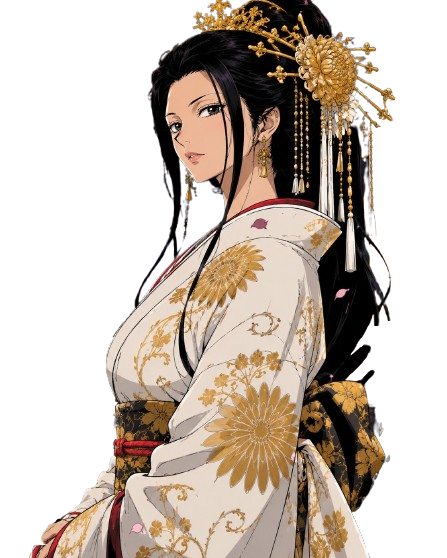
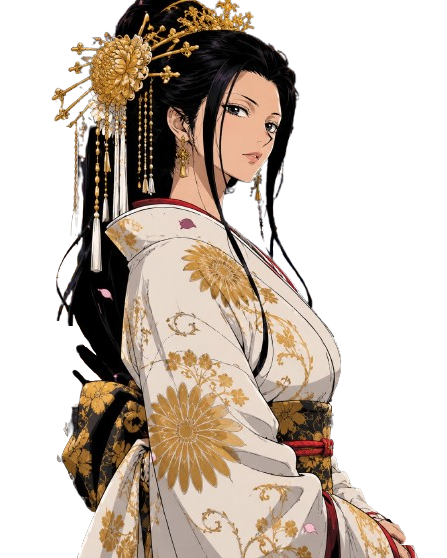
Juego Nyinyus v2.17

diff --git a/game.js b/game.js
@@ -88,7 +88,8 @@ const collectibleLibrary = {
     order: 2,
     buttonText: "Pergamino",
     image: "PERGAMINO_DEL_KYUBI_CELESTIAL.jpeg",
-    alt: "Pergamino con una mascara de zorro y un simbolo circular fragmentado"
+    alt: "Pergamino con una mascara de zorro y un simbolo circular fragmentado",
+    visibleScenePrefixes: ["toki_hanashima_"]
   }
 };
 const creditTeam = [
@@ -554,12 +555,13 @@ function getVisibleLayoutItems(items) {
 function showDialogue(step) {
   recordCheckpoint();
   const speaker = step.speaker || "";
+  const speakingCharacterKey = step.characterId || step.character || speaker;
 
-  revealSpeakingCharacter(speaker);
+  revealSpeakingCharacter(speakingCharacterKey);
   speakerName.textContent = speaker;
   speakerName.classList.toggle("hidden", !speaker);
-  setSpeakerStyle(speaker);
-  setSpeakingCharacter(speaker);
+  setSpeakerStyle(speakingCharacterKey);
+  setSpeakingCharacter(speakingCharacterKey);
   typeText(step.text || "");
 }
 
@@ -652,7 +654,7 @@ async function showCredits() {
   const endingBlock = creditsRoll.querySelector(".credits-ending-block");
   const endOffset = calculateCreditsEndOffset(endingBlock);
   const travelDistance = window.innerHeight - endOffset;
-  const duration = Math.max(78, Math.ceil(travelDistance / 22));
+  const duration = Math.max(58, Math.ceil(travelDistance / 30));
   creditsRoll.style.setProperty("--credits-end-offset", endOffset + "px");
   creditsRoll.style.setProperty("--credits-duration", duration + "s");
   creditsRoll.style.animation = "";
@@ -702,8 +704,6 @@ function buildCreditsRoll() {
 
   const groupBlock = document.createElement("section");
   groupBlock.className = "credits-group-photo";
-  appendCreditText(groupBlock, "Foto grupal", "credits-section-title");
-  appendCreditText(groupBlock, "*Aún no la tengo", "credits-note");
   creditsRoll.appendChild(groupBlock);
 
   appendCreditEndingButton();
@@ -981,7 +981,7 @@ function renderInspectPrompt(options) {
 
   inspectPrompt.innerHTML = "";
 
-  getUnlockedCollectiblesInOrder().forEach((collectible) => {
+  getVisibleUnlockedCollectiblesInOrder().forEach((collectible) => {
     const isRequired =
       requiredStep &&
       requiredStep.collectible &&
@@ -1050,6 +1050,25 @@ function handleInspectButtonClick(step, options) {
 function getUnlockedCollectiblesInOrder() {
   return Array.from(unlockedCollectibles.values()).sort((left, right) => {
     return getCollectibleOrder(left.id) - getCollectibleOrder(right.id);
+  });
+}
+
+function getVisibleUnlockedCollectiblesInOrder() {
+  return getUnlockedCollectiblesInOrder().filter((collectible) => {
+    return isCollectibleVisibleInScene(collectible.id, currentSceneId);
+  });
+}
+
+function isCollectibleVisibleInScene(collectibleId, sceneId) {
+  const collectible = collectibleLibrary[collectibleId];
+  const visibleScenePrefixes = collectible && collectible.visibleScenePrefixes;
+
+  if (!Array.isArray(visibleScenePrefixes) || visibleScenePrefixes.length === 0) {
+    return true;
+  }
+
+  return visibleScenePrefixes.some((prefix) => {
+    return typeof prefix === "string" && typeof sceneId === "string" && sceneId.startsWith(prefix);
   });
 }
 
@@ -1879,8 +1898,7 @@ function applyBackgroundState(backgroundState) {
 }
 
 function shouldHideCharactersForCurrentBackground() {
-  return normalizeAssetKey(currentBackgroundState && currentBackgroundState.image) ===
-    TRANSITION_BACKGROUND_KEY;
+  return false;
 }
 
 function normalizeAssetKey(value) {
@@ -2359,6 +2377,13 @@ function getAnchoredCompanionLeftSlots(count) {
 }
 
 function getAnchoredCompanionCenterSlots(count) {
+  if (count === 2) {
+    return [
+      { position: "center", side: "center", offsetX: "-92px", zIndex: 35 },
+      { position: "center", side: "center", offsetX: "92px", zIndex: 35 }
+    ];
+  }
+
   return buildSlotSequence(count, [
     { position: "center", side: "center", zIndex: 36 },
     { position: "center", side: "center", offsetX: "-92px", zIndex: 35 },
@@ -2552,16 +2577,25 @@ function isPirateCharacter(character) {
   );
 }
 
+function isElevatedFocalCharacter(character) {
+  return isPirateCharacter(character) || isCharacter(character, "rey_hanabusa");
+}
+
 function isChildCharacter(character) {
   return isCharacter(character, "nino") || isCharacter(character, "ninos");
 }
 
 function isAnchoredFocalCharacter(character) {
-  return isPirateCharacter(character) || isChildCharacter(character);
+  return isElevatedFocalCharacter(character) || isChildCharacter(character);
 }
 
 function isCenteredSupportCharacter(character) {
-  return isCharacter(character, "anciano_triste") || isCharacter(character, "anciano_contento");
+  return (
+    isCharacter(character, "anciano_triste") ||
+    isCharacter(character, "anciano_contento") ||
+    isCharacter(character, "lady_rin") ||
+    isCharacter(character, "lord_kazan")
+  );
 }
 
 function buildHighlightedTertiaryGroup(tertiaryCharacters, normalizedAnimatedId) {

diff --git a/scenes/isla-rabbita.js b/scenes/isla-rabbita.js
@@ -1,7 +1,8 @@
-const rabbitaDialogue = (speaker, text) => ({
+const rabbitaDialogue = (speaker, text, characterId) => ({
   type: "dialogue",
   speaker,
-  text
+  text,
+  ...(characterId ? { characterId } : {})
 });
 
 Object.assign(story, {
@@ -212,7 +213,7 @@ Object.assign(story, {
     ),
     rabbitaDialogue("Mako", "¡¡¡HOLAAAAA!!!"),
     rabbitaDialogue("Narrador", "La chica pegó un pequeño salto. Sus papeles casi salieron volando."),
-    rabbitaDialogue("?????", "¿¡Qué...!?"),
+    rabbitaDialogue("?????", "¿¡Qué...!?", "blue"),
     rabbitaDialogue(
       "Mako",
       "¿Por qué estás triste y científica al mismo tiempo? ¿Quieres ser mi amiga? ¿Cómo te llamas? ¿Qué haces aquí?"
@@ -221,7 +222,7 @@ Object.assign(story, {
       "Narrador",
       "La chica parpadeó varias veces, intentando procesar todo lo que estaba ocurriendo."
     ),
-    rabbitaDialogue("?????", "Yo... no estoy... ¿eh? Soy Blue... y yo... eh..."),
+    rabbitaDialogue("?????", "Yo... no estoy... ¿eh? Soy Blue... y yo... eh...", "blue"),
     rabbitaDialogue("Narrador", "Miró el brazo de Mako todavía colgado sobre ella."),
     rabbitaDialogue("Blue", "Necesito un momento para procesar esto."),
     rabbitaDialogue("Narrador", "Rocky empezó a reírse desde la mesa."),
@@ -1177,7 +1178,7 @@ Object.assign(story, {
     rabbitaDialogue("Narrador", "Mako abrió muchísimo los ojos."),
     rabbitaDialogue("Mako", "LA ISLA SE ESTÁ MOVIENDO."),
     rabbitaDialogue("Narrador", "Entonces una voz resonó detrás de ellos."),
-    rabbitaDialogue("?????", "Lo hiciste. Sabía que lo conseguirías."),
+    rabbitaDialogue("?????", "Lo hiciste. Sabía que lo conseguirías.", "sylus"),
     rabbitaDialogue("Narrador", "Todos se giraron."),
     rabbitaDialogue(
       "Narrador",

diff --git a/index.html b/index.html
@@ -94,11 +94,11 @@
   <script src="scenes/intro.js?v=20260511a"></script>
   <script src="scenes/isla-toki-no-hanashima.js?v=20260511b"></script>
   <script src="scenes/isla-tempestaria.js?v=20260511a"></script>
-  <script src="scenes/isla-rabbita.js?v=20260517a"></script>
+  <script src="scenes/isla-rabbita.js?v=20260517b"></script>
   <script src="scenes/isla-ornithea.js?v=20260517a"></script>
   <script src="scenes/isla-eirene.js?v=20260517c"></script>
   <script src="scenes/final-historia.js?v=20260517d"></script>
-  <script src="game.js?v=20260517e"></script>
+  <script src="game.js?v=20260517g"></script>
   <script src="minijuego_mesas_boda.js?v=20260513a"></script>
   <script src="minijuego_laberinto.js?v=20260513b"></script>
   <script src="minijuego_engranajes.js?v=20260513a"></script>

diff --git a/minijuego_engranajes.html b/minijuego_engranajes.html
@@ -433,7 +433,7 @@
 
       <div class="victory-panel" id="victoryPanel" role="dialog" aria-live="polite" hidden>
         <div class="victory-mark" aria-hidden="true"></div>
-        <p>¡La maquinaria vuelve a funcionar!</p>
+        <p>¡La puerta vuelve a funcionar!</p>
         <button id="continueButton" type="button" hidden>Continuar</button>
       </div>
     </section>

diff --git a/scenes/final-historia.js b/scenes/final-historia.js
@@ -141,8 +141,6 @@ Object.assign(story, {
       options: [
         {
           text: "To be continued...",
-          text: "Sábado 23 de Mayo a las 10:20h",
-          text: "41.362428, 1.708434",
           action: "showCredits"
         }
       ]

diff --git a/scenes/isla-tempestaria.js b/scenes/isla-tempestaria.js
@@ -232,7 +232,7 @@ Object.assign(story, {
     {
       type: "dialogue",
       speaker: "Hombre",
-      text: "DETENEDLA."
+      text: "¡¡MAKO, VUELVE!! ¡¡¡DETENEDLA!!!"
     },
     {
       type: "dialogue",

diff --git a/scenes/isla-toki-no-hanashima.js b/scenes/isla-toki-no-hanashima.js
@@ -133,7 +133,7 @@ Object.assign(story, {
     },
     {
       type: "dialogue",
-      speaker: "Anciana",
+      speaker: "Vieja",
       text: "ALGUIEN HA CAMBIADO LOS DULCES DE LAS 08:03 POR LOS DE LAS 08:04."
     },
     {